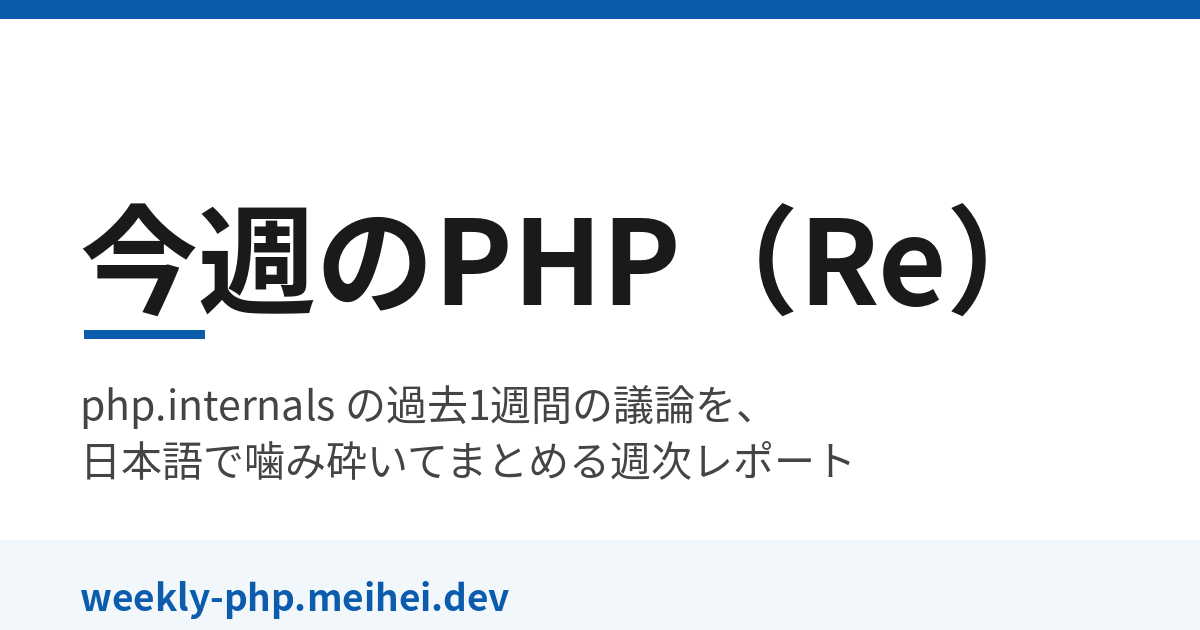
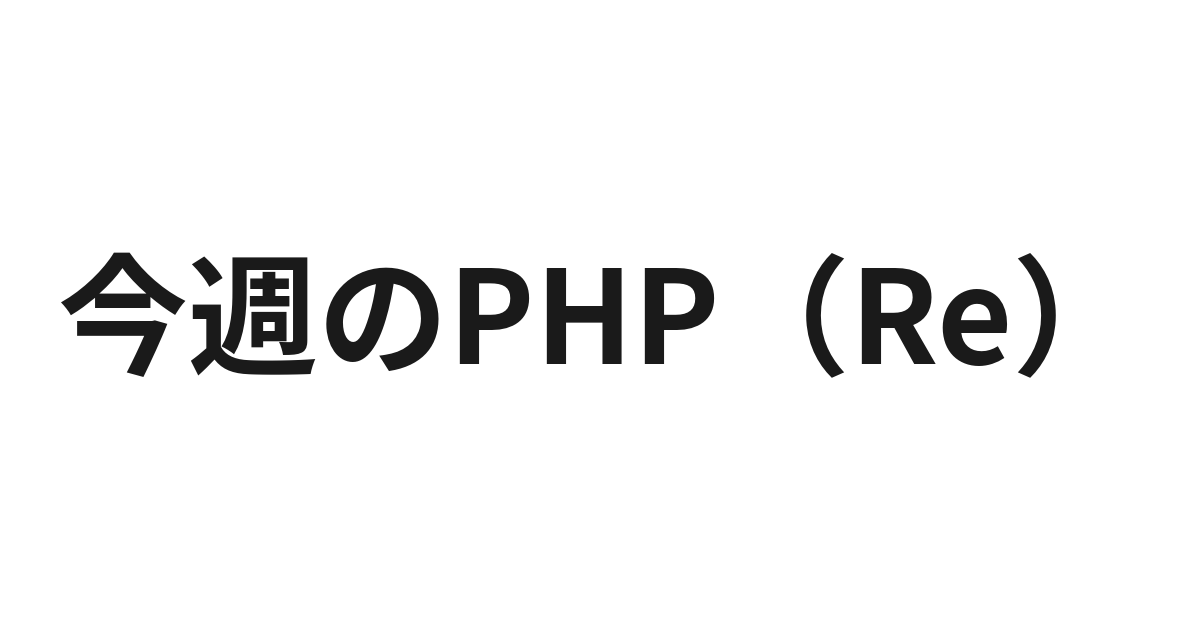
OGP画像を白背景にサイト名だけのデザインへ変更

Changed region(s): [[0.0308, 0.3016, 0.8942, 0.7841], [0.0, 0.0, 1.0, 0.0302], [0.0617, 0.9048, 0.4317, 0.9952]]

diff --git a/scripts/make-ogp.py b/scripts/make-ogp.py
@@ -2,36 +2,23 @@
 """OGP 画像 (public/og.png, 1200x630) を生成する。
 
 使い方: python3 scripts/make-ogp.py
-要 Pillow と Noto Sans CJK フォント。サイトの配色 (#0b5cad / #f2f7fc) に合わせた
-シンプルなデザイン。タイトルなどを変えたら再実行して og.png を更新すること。
+要 Pillow と Noto Sans CJK フォント。デザインは Ema の指定 (2026-11-17) で
+「白背景に『今週のPHP（Re）』の文字だけ」。装飾・説明文・ドメイン表記なし。
 """
 from PIL import Image, ImageDraw, ImageFont
 
 W, H = 1200, 630
-BLUE = (11, 92, 173)        # #0b5cad
 DARK = (26, 26, 26)         # #1a1a1a
-GRAY = (68, 68, 68)
-LIGHT = (242, 247, 252)     # #f2f7fc
-
 BOLD = "/usr/share/fonts/opentype/noto/NotoSansCJK-Bold.ttc"
-REG = "/usr/share/fonts/opentype/noto/NotoSansCJK-Regular.ttc"
 
 img = Image.new("RGB", (W, H), (255, 255, 255))
 d = ImageDraw.Draw(img)
 
-# 上部の帯と淡い背景パネル
-d.rectangle([0, 0, W, 18], fill=BLUE)
-d.rectangle([0, H - 90, W, H], fill=LIGHT)
-
-title_font = ImageFont.truetype(BOLD, 118)
-sub_font = ImageFont.truetype(REG, 41)
-foot_font = ImageFont.truetype(BOLD, 37)
-
-d.text((80, 168), "今週のPHP（Re）", font=title_font, fill=DARK)
-d.rectangle([84, 330, 204, 338], fill=BLUE)
-d.text((80, 372), "php.internals の過去1週間の議論を、", font=sub_font, fill=GRAY)
-d.text((80, 428), "日本語で噛み砕いてまとめる週次レポート", font=sub_font, fill=GRAY)
-d.text((80, H - 62), "weekly-php.meihei.dev", font=foot_font, fill=BLUE)
+font = ImageFont.truetype(BOLD, 130)
+text = "今週のPHP（Re）"
+bbox = d.textbbox((0, 0), text, font=font)
+tw, th = bbox[2] - bbox[0], bbox[3] - bbox[1]
+d.text(((W - tw) / 2 - bbox[0], (H - th) / 2 - bbox[1]), text, font=font, fill=DARK)
 
 img.save("public/og.png")
 print("wrote public/og.png")
